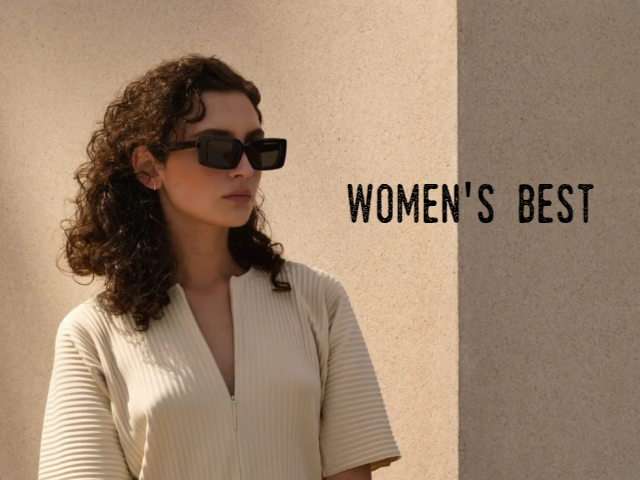
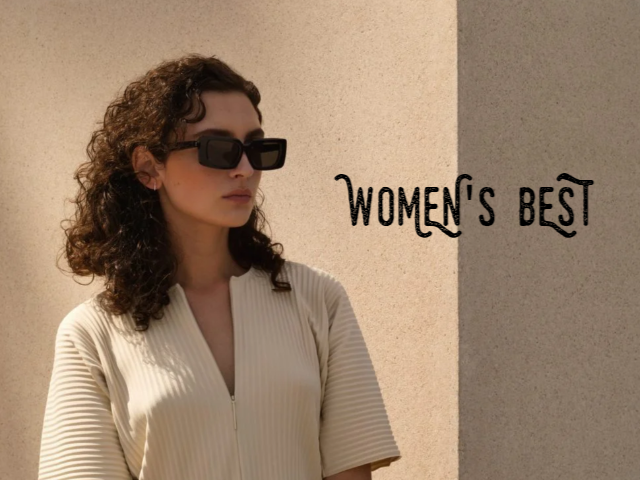
ew_changed

Changed region(s): [[0.5312, 0.3438, 0.7812, 0.5], [0.8125, 0.3438, 0.9375, 0.5]]

diff --git a/GenieProject/src/main/webapp/js_css/index_style.css b/GenieProject/src/main/webapp/js_css/index_style.css
@@ -1,0 +1,69 @@
+@charset "UTF-8";
+/* ---------------------뒤에 흰색배경 초기설정----------------------- */
+.index {
+	margin: 0;
+	padding: 0;
+}
+h1 {
+	margin: 12vh 0;
+	font-size: 3.5rem;
+	color: #080E31;
+	text-align: center;
+}
+/* --------------첫번째 배너 설정---------------- */
+.index-list a img{
+	display: flex;
+	align-items: center;
+	justify-content: center;
+	width: 100%;
+	height: auto;
+}
+/* --------------------카테고리 설정--------------------- */
+
+.category-list{
+	display: grid;
+	grid-template-columns: 12vw 12vw 12vw 12vw 12vw 12vw;
+	justify-content: space-evenly;
+	row-gap: 3rem;
+}
+.category-list img{
+	width: 100%;
+	height: auto;
+	border-radius: 50%;
+	box-shadow: 0 0 50px #b4b4b4;
+}
+.category-list span{
+	font-size: 1.6rem;
+	text-align: center;
+}
+/* ----------------------------------랭킹페이지----------------------------------------- */
+
+.ranking-list img{
+	width: 30%;
+	margin: 0 .3%;
+}
+/* ----------------브랜드 span설정------------------ */
+.brand-title h1{
+	margin-left: 7vw;
+}
+.brand-title span{
+	margin-left: 30vw;
+}
+
+/* --------------------------------베스트 브랜드, 금주의 브랜드----------------------------- */
+.brand {
+	display: grid;
+	grid-template-columns: 50% 18% 26%;
+	justify-content: center;
+	align-items: center;
+	gap: 2rem;
+}
+.brand a{
+	margin: 0;
+	font-size: 1.5rem;
+}
+.brand img{
+	width: 100%;
+	height: auto;
+}
+/* --------------------------------------------------------------------------- */

diff --git a/GenieProject/src/main/webapp/js_css/top_style.css b/GenieProject/src/main/webapp/js_css/top_style.css
@@ -1,12 +1,14 @@
 @charset "UTF-8";
 /* 사용할 수 있는 폰트
 font-family: 'East Sea Dokdo', cursive;
+font-family: 'Stylish', sans-serif;
 font-family: 'Sunflower', sans-serif;
 font-family: 'Yeon Sung', cursive; */
+
 *{
 	padding: 0;
 	margin: 0;
-	font-family: 'Yeon Sung', cursive;
+	font-family: 'Sunflower', sans-serif;
 	box-sizing: border-box;
 	list-style-type: none;
 	text-decoration-line: none;
@@ -28,7 +30,7 @@ nav{
 nav ul li{
 	display: inline-block;
 	padding-left: 2.5vw;
-	font-size: 1.5rem;
+	font-size: 1.6rem;
 }
 nav ul li a{
 	color: black;
@@ -36,6 +38,6 @@ nav ul li a{
 	text-transform: capitalize;
 }
 nav ul li a:hover{
-	color:#12887A;
+	color:#2EC9FD;
 	transition: .4s;
 }
